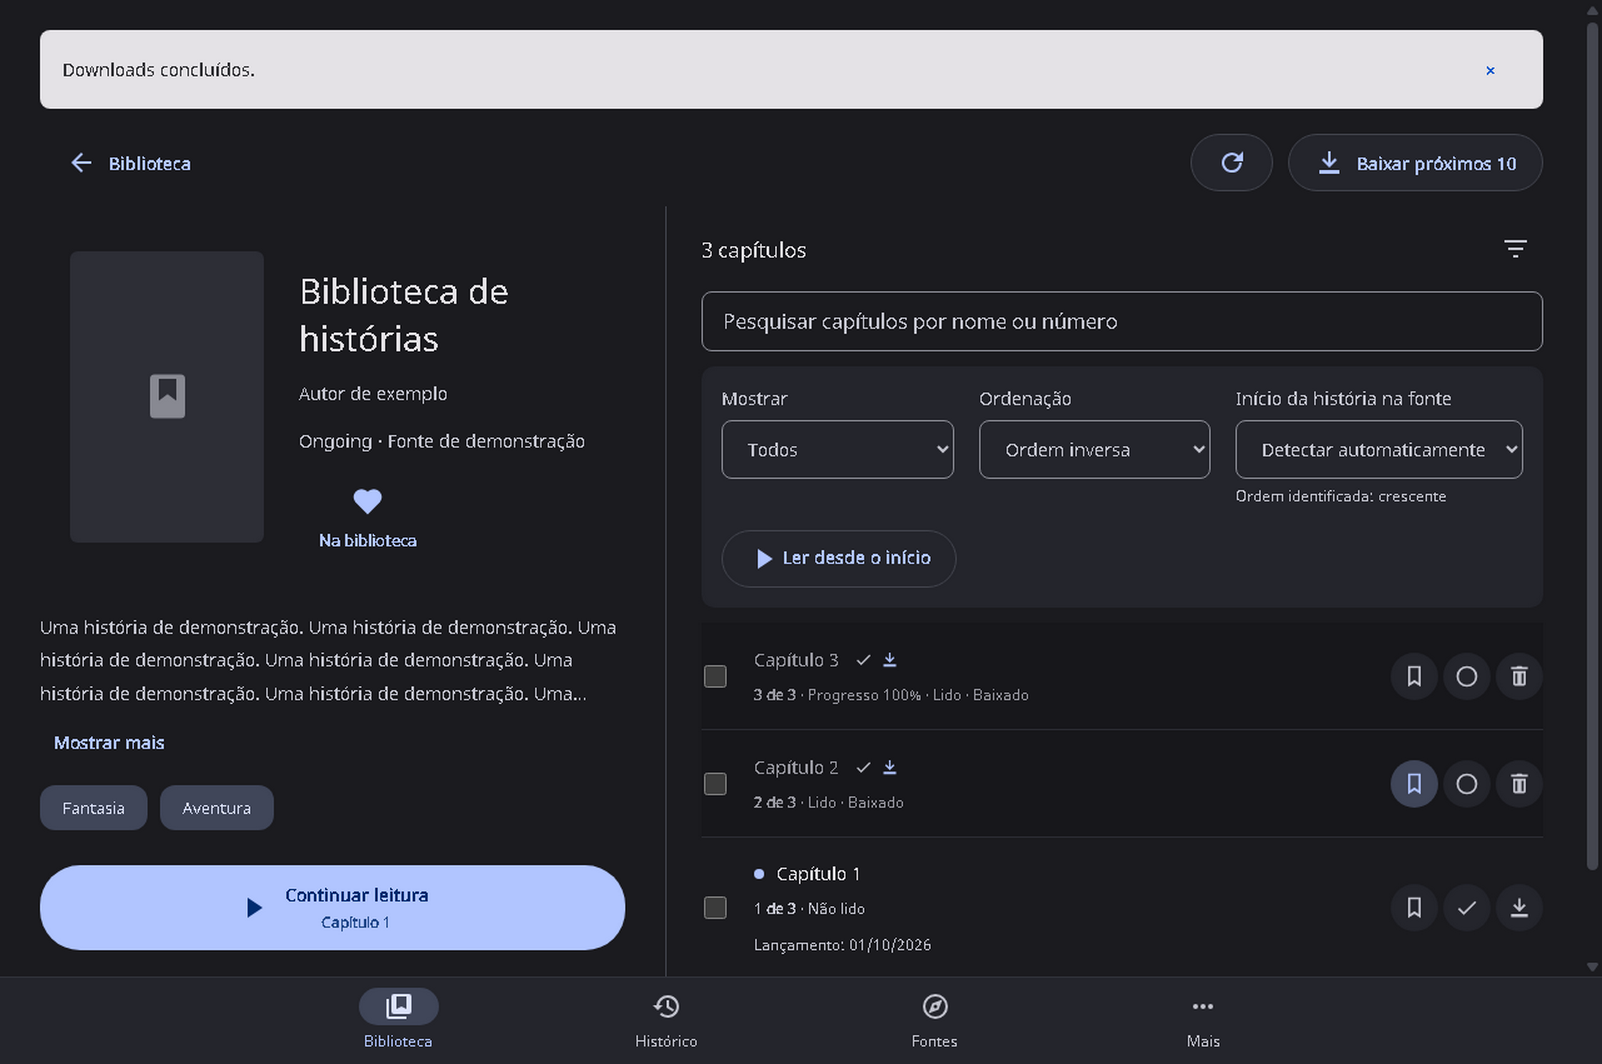
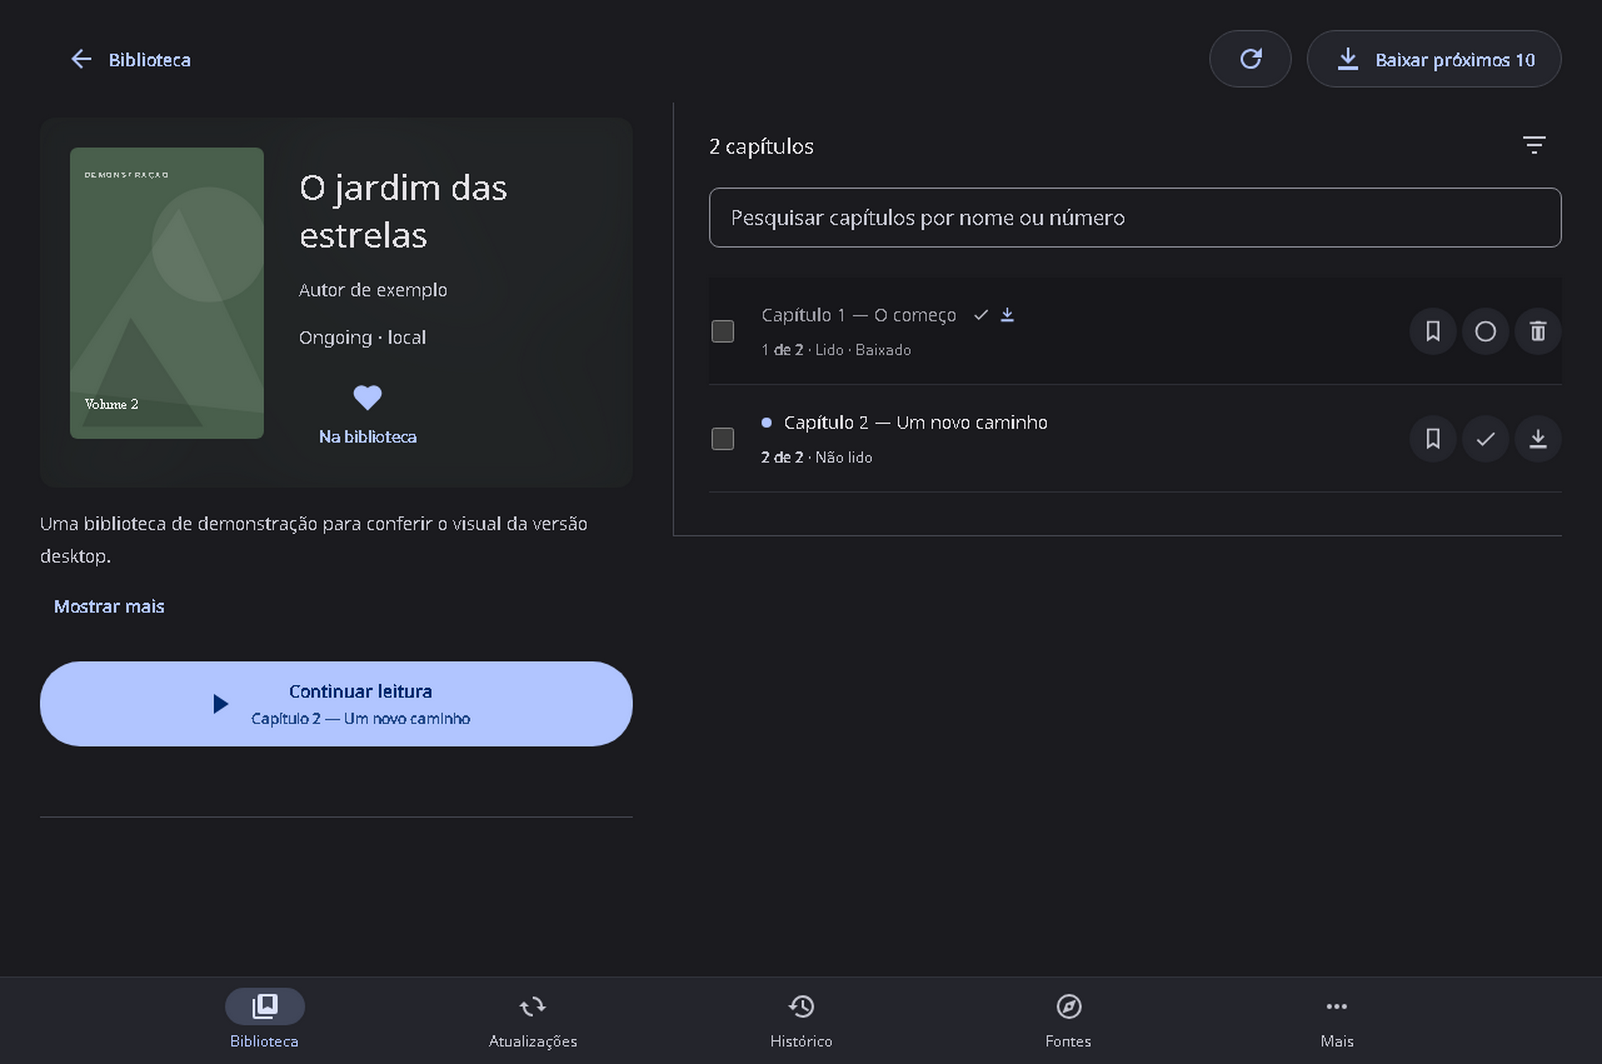
Release 0.4.0 with uniform chapter hover and updated screenshots
Generated with Codex.

diff --git a/desktop/src/style.css b/desktop/src/style.css
@@ -215,9 +215,15 @@ select option {
   flex-wrap: wrap;
   margin: 8px 0 18px;
 }
-.source-language-row input { flex: 1 1 230px; }
-.source-language-row label { margin: 0; }
-.source-language-row select { min-width: 175px; }
+.source-language-row input {
+  flex: 1 1 230px;
+}
+.source-language-row label {
+  margin: 0;
+}
+.source-language-row select {
+  min-width: 175px;
+}
 .source-mode-tabs {
   display: flex;
   gap: 12px;
@@ -755,7 +761,7 @@ section .row button:first-child {
   font-weight: 400;
 }
 .chapters .chapter-open:hover {
-  background: color-mix(in srgb, var(--onSurface) 5%, transparent);
+  background: transparent;
 }
 .chapters small {
   font-size: 12px;
@@ -2085,4 +2091,12 @@ footer {
   gap: 10px;
   color: var(--onSurfaceVariant);
   font-size: 13px;
+}
+
+.chapter-row:hover,
+.chapter-row:focus-within {
+  background-image: linear-gradient(
+    color-mix(in srgb, var(--onSurface) 5%, transparent),
+    color-mix(in srgb, var(--onSurface) 5%, transparent)
+  );
 }

diff --git a/README.md b/README.md
@@ -6,9 +6,11 @@ do LNReader Android, com código específico para computador.
 
 ![Tela de detalhes](./desktop/docs/screenshots/desktop-novel.png)
 
+![Biblioteca](./desktop/docs/screenshots/desktop-library.png)
+
 ## Recursos
 
-Biblioteca, pesquisa por fontes, progresso de leitura, capítulos offline,
+Biblioteca, busca global de obras, filtro de fontes por idioma, tela cheia, progresso de leitura, capítulos offline,
 downloads, temas, histórico, marcadores e exportação/restauração de backups.
 O suporte a fontes pode variar conforme autenticação e bloqueios dos sites.
 
@@ -16,9 +18,7 @@ O suporte a fontes pode variar conforme autenticação e bloqueios dos sites.
 
 ## Estado do projeto
 
-**Versão 0.3.0 Beta** — o Desktop é agora o projeto principal na branch `main`.
-A branch [`seguranca-e-estabilidade`](https://github.com/GuilhermeLourenceto/lnreader-desktop/tree/seguranca-e-estabilidade)
-continua disponível como referência de desenvolvimento. [Notas da v0.3.0](desktop/docs/RELEASE_NOTES_0.3.0.md).
+**Versão 0.4.0 Beta** — [Baixar instalador](https://github.com/GuilhermeLourenceto/lnreader-desktop/releases/tag/v0.4.0) · [Novidades](desktop/docs/RELEASE_NOTES_0.4.0.md).
 O projeto ainda é experimental; algumas extensões podem exigir login, apresentar bloqueios ou falhar.
 A compilação do Desktop, seus testes e as jornadas automatizadas são verificados
 pelo [GitHub Actions](https://github.com/GuilhermeLourenceto/lnreader-desktop/actions/workflows/desktop.yml).

diff --git a/desktop/CHANGELOG.md b/desktop/CHANGELOG.md
@@ -1,5 +1,16 @@
 # Histórico de versões
 
+## 0.4.0 Beta
+
+- Destaque uniforme na linha inteira do capítulo ao passar o mouse, incluindo seleção e ações.
+- Tela cheia para leitura com menos distrações.
+- Busca global de obras em destaque na aba Fontes.
+- Filtro por idioma nas fontes instaladas e no catálogo.
+- Ajuste de avanço da leitura com valor inicial de 50% e controle centralizado.
+- Correções na conexão das fontes e proteção contra redirecionamentos para endereços privados, permitindo respostas DNS públicas válidas.
+
+Versão experimental para Windows 10/11 x64. Algumas fontes podem exigir login ou apresentar bloqueios. O aplicativo ainda não possui assinatura digital confiável e pode ser bloqueado pelo Windows.
+
 ## 0.3.0 Beta — 29/10/2026
 
 - O LNReader Desktop passa a ser o conteúdo principal da branch `main`; a versão Android anterior permanece no histórico Git.

diff --git a/desktop/docs/RELEASE_NOTES_0.4.0.md b/desktop/docs/RELEASE_NOTES_0.4.0.md
@@ -1,0 +1,10 @@
+# LNReader Desktop 0.4.0 Beta
+
+- Destaque uniforme na linha inteira do capítulo ao passar o mouse, incluindo seleção e ações.
+- Tela cheia para leitura com menos distrações.
+- Busca global de obras em destaque na aba Fontes.
+- Filtro por idioma nas fontes instaladas e no catálogo.
+- Ajuste de avanço da leitura com valor inicial de 50% e controle centralizado.
+- Correções na conexão das fontes e proteção contra redirecionamentos para endereços privados, permitindo respostas DNS públicas válidas.
+
+Versão experimental para Windows 10/11 x64. Algumas fontes podem exigir login ou apresentar bloqueios. O aplicativo ainda não possui assinatura digital confiável e pode ser bloqueado pelo Windows.

diff --git a/desktop/README.md b/desktop/README.md
@@ -9,7 +9,7 @@ o painel de filtros oferece ordem inversa e ordenação por nome/número.
 As opções para definir a direção
 da fonte e ler desde o início também ficam nesse painel. O código Android antigo continua acessível no histórico Git; a `main` agora contém somente o projeto Desktop.
 
-Versão atual: **0.3.0 Beta**. Consulte as [notas de lançamento](docs/RELEASE_NOTES_0.3.0.md).
+Versão atual: **0.4.0 Beta**. Consulte as [notas de lançamento](docs/RELEASE_NOTES_0.4.0.md).
 
 A interface utiliza uma cópia versionada da paleta original,
 em `vendor/lnreader/src/theme/md3/defaultTheme.ts`, e as fontes
